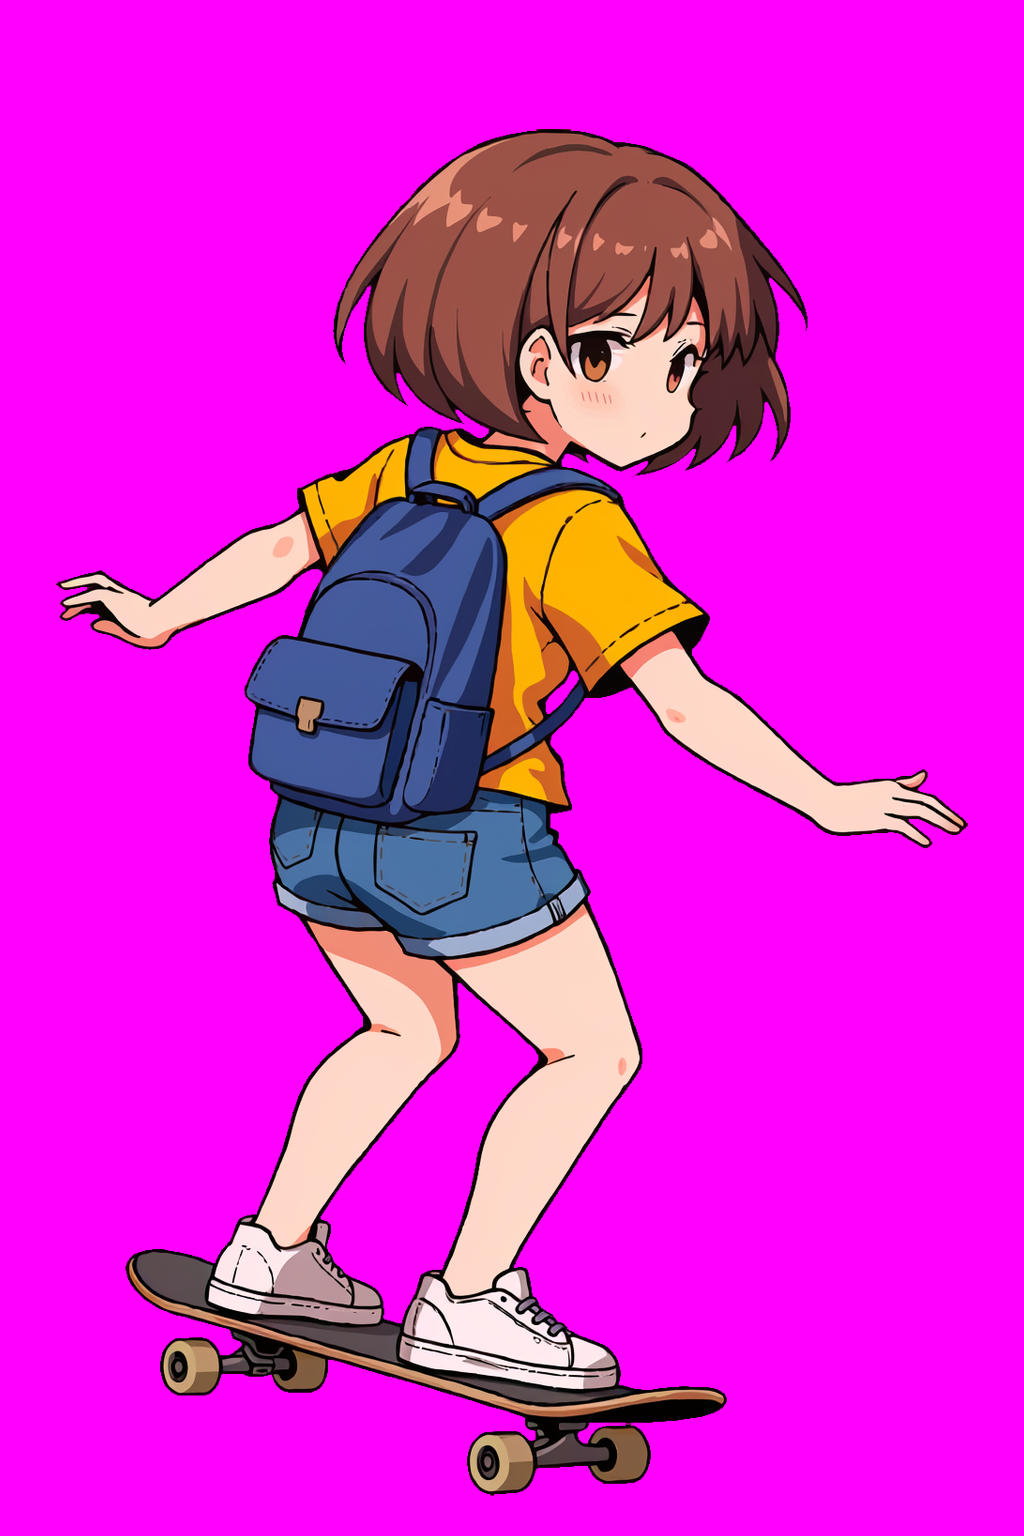
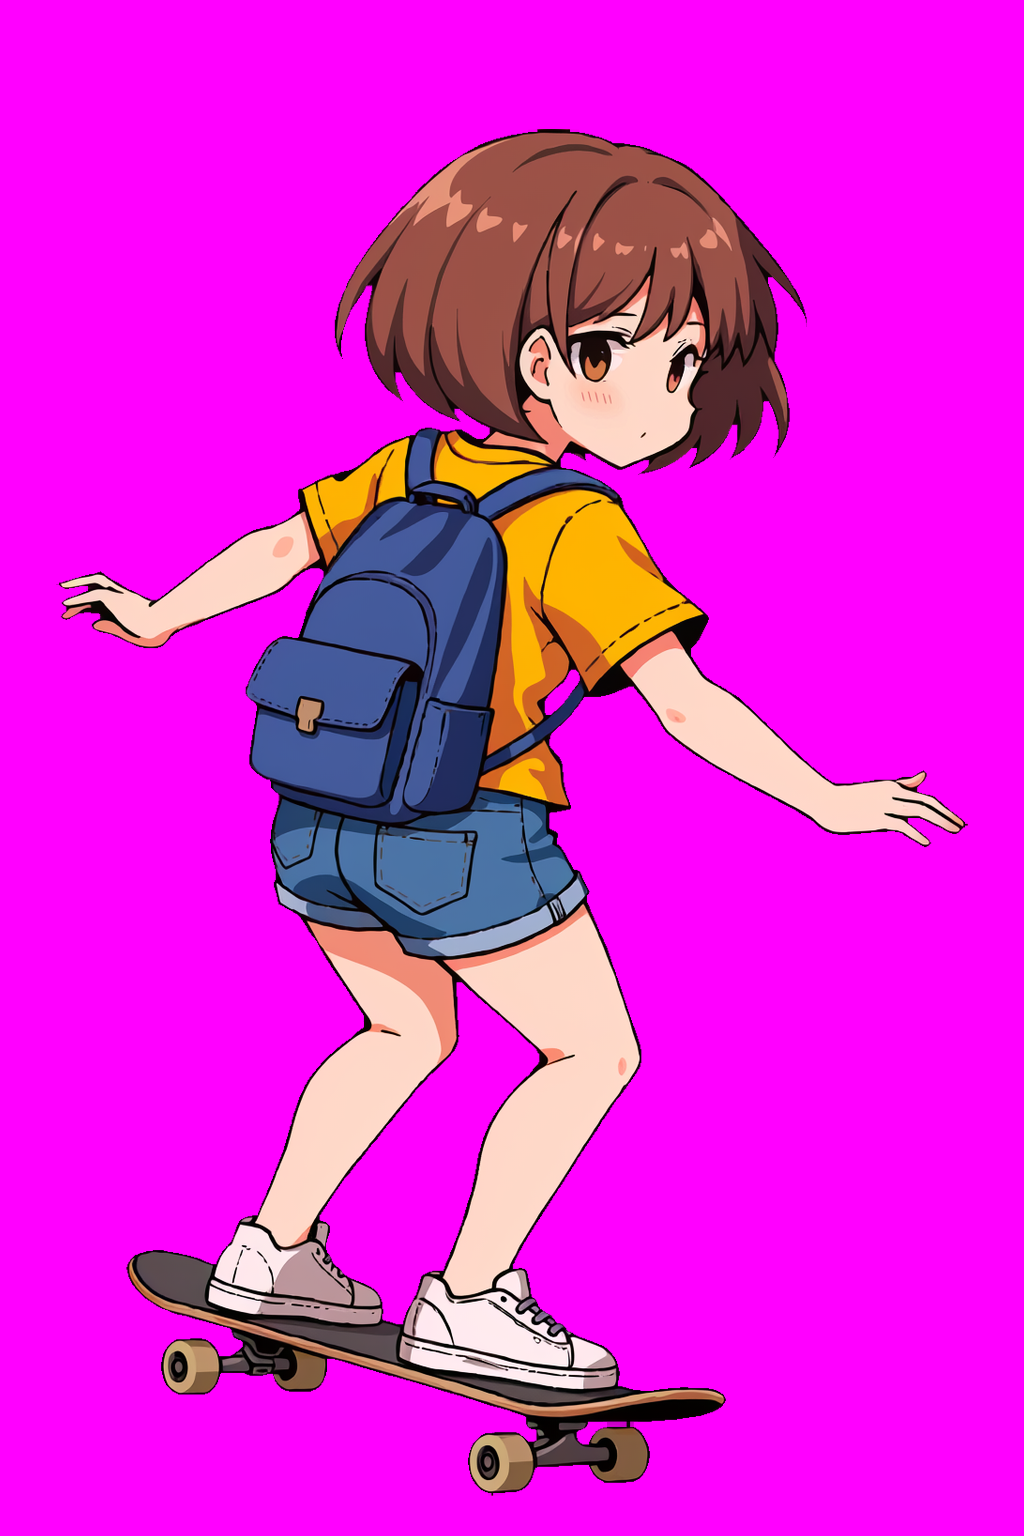
fix(render): get the magenta key out of the sprite edges
Chroma keying leaves a ring of texels that are part figure, part key colour, and
they were surviving both the shader test and the export. The result was a pink-lilac
outline around the skater, most obvious against the sea.

Attacked from both ends. The exporter pulls the mask in by two pixels instead of
one and then repaints any pixel still leaning pink from its non-pink neighbours, so
the blend is gone from the file rather than merely hidden. The shader drops
anything with red and blue both clearly above green as well, since the palette has
no colour of its own that looks like that - the only way to hit it is to be part
key.

Doing it in the file matters more than doing it in the shader: the shader can only
discard a bad texel, while the exporter can replace it with the colour it should
have been, so the silhouette keeps its edge instead of losing a pixel of it.

diff --git a/Tools/FireflyArt/process_batch3.py b/Tools/FireflyArt/process_batch3.py
@@ -177,7 +177,16 @@ def compose_pose(name, out_name, target_h_frac=0.89, feet_from_bottom=40, canvas
     fm = fm.resize((nw, nh), Image.LANCZOS)
     # clean key: replace anything outside the figure with pure magenta, and
     # de-fringe by pulling the mask in by ~1px so no pink halo survives.
-    fm = fm.filter(ImageFilter.MinFilter(3))
+    fm = fm.filter(ImageFilter.MinFilter(5))
+    # Un-blend the key from the remaining edge texels: where a pixel still leans
+    # pink (r,b well above g) pull it toward its non-pink neighbour colour.
+    fa = np.asarray(fig).astype(np.float32)
+    r, g, b = fa[..., 0], fa[..., 1], fa[..., 2]
+    pink = ((r - g) > 70) & ((b - g) > 55)
+    if pink.any():
+        blurred = np.asarray(fig.filter(ImageFilter.MedianFilter(7))).astype(np.float32)
+        fa[pink] = blurred[pink]
+        fig = Image.fromarray(np.clip(fa, 0, 255).astype(np.uint8))
     bg = Image.new("RGB", canvas, (255, 0, 255))
     px = (cw - nw) // 2
     py = ch - feet_from_bottom - nh
